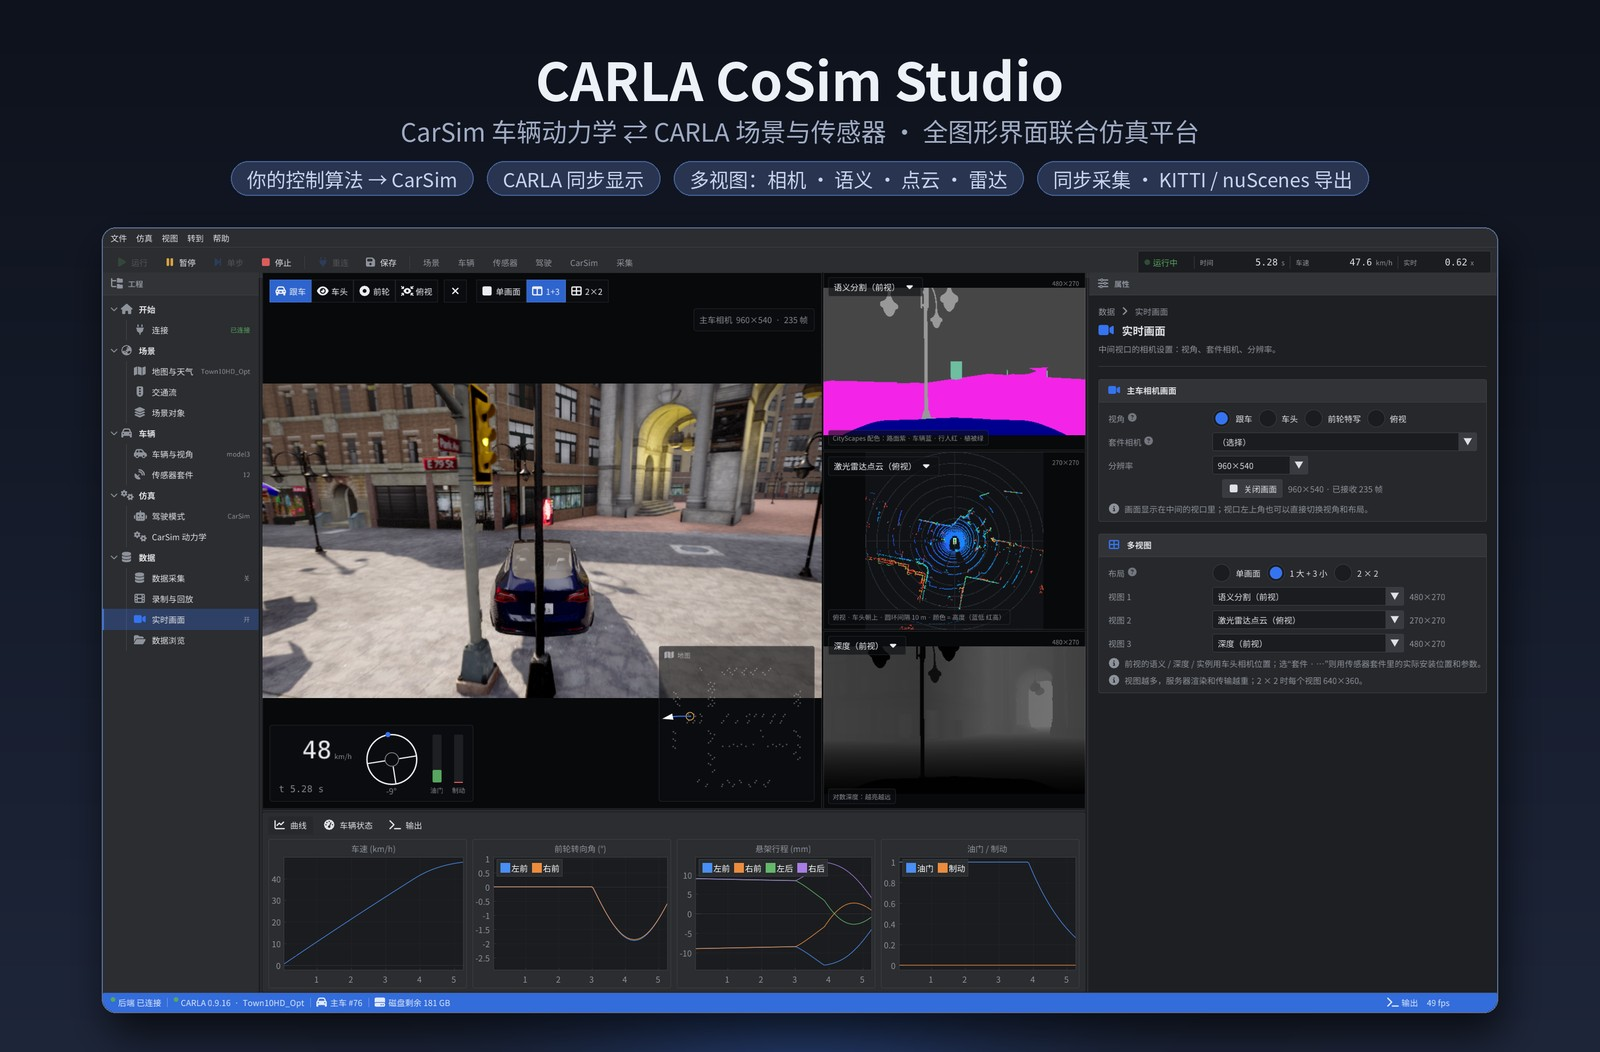
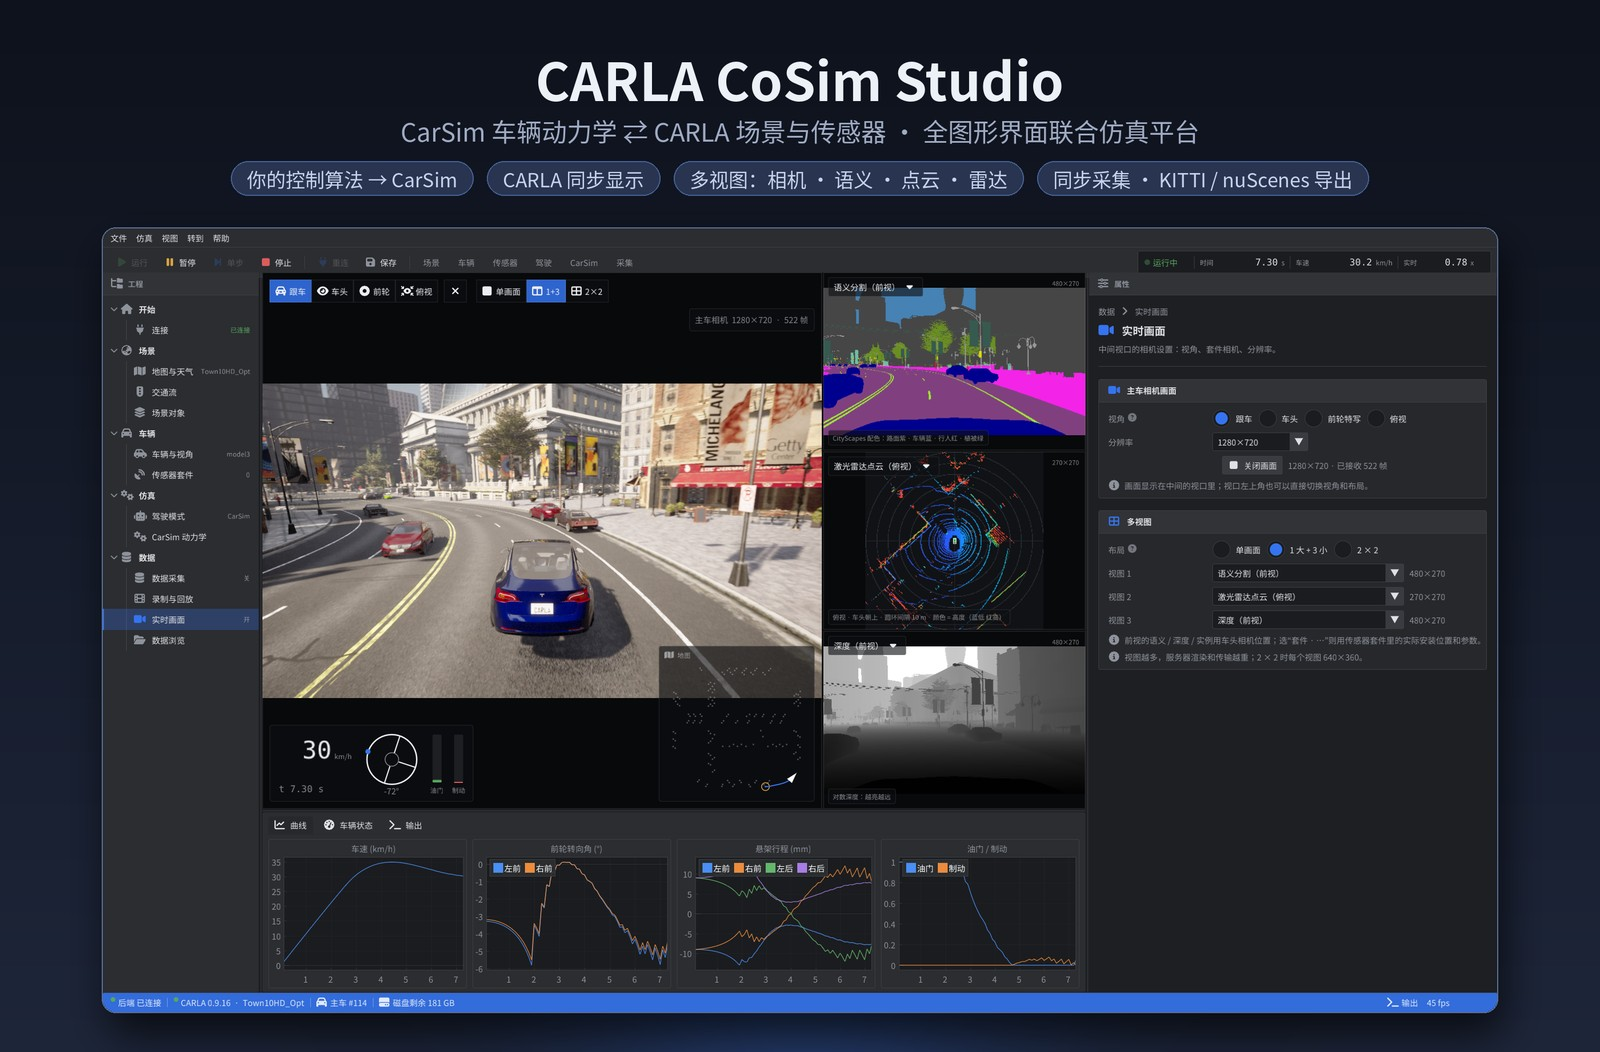
README cover without obstruction; a failed run start keeps the ego
Cover re-shot with the new --hero scenario (clear weather, traffic, CarSim
co-sim following the road, 1+3 multi-view); the old one had the ego
hidden behind a lamp post after the demo controller left the road.
Found while shooting: a run whose spawn point is occupied destroyed the
ego, its sensors and views, and the GUI kept showing a frozen frame. Now
the start fails with a clear message and the previous ego, sensors and
views are restored; the backend reports active views (views_active) so
the GUI never shows stale frames.

diff --git a/cosim_gui/src/app.cpp b/cosim_gui/src/app.cpp
@@ -180,6 +180,8 @@ void App::Init(int argc, char** argv) {
     auto next = [&](std::string& dst) { if (i + 1 < argc) dst = argv[++i]; };
     std::string v;
     if (a == "--tour") next(tour_dir_);
+    else if (a == "--hero") { next(tour_dir_); hero_spawns_ = hero_spawns_.empty() ? "3" : hero_spawns_; }
+    else if (a == "--hero-spawns") next(hero_spawns_);
     else if (a == "--python") { next(v); prefs_["python"] = v; }
     else if (a == "--backend-dir") { next(v); prefs_["backend_dir"] = v; }
     else if (a == "--carla-port") { next(v); prefs_["carla_port"] = std::atoi(v.c_str()); }
@@ -194,7 +196,9 @@ void App::Init(int argc, char** argv) {
   std::string last = prefs_.value("last_config", std::string());
   if (!last.empty() && plat::FileExists(last)) LoadConfig(last);
   if (prefs_.value("auto_start_backend", true)) StartBackend();
-  if (!tour_dir_.empty()) BuildTour();
+  if (!tour_dir_.empty()) {
+    if (hero_spawns_.empty()) BuildTour(); else BuildHeroTour();
+  }
 }
 
 void App::SavePrefs() {
@@ -702,6 +706,10 @@ void App::OnEvent(const json& ev) {
   } else if (type == "progress") {
     const int done = ev.value("done", 0), total = ev.value("total", 1);
     if (done < total) busy_ = Fmt("正在测量车型尺寸 %d/%d", done + 1, total);
+  } else if (type == "views_active") {
+    // The backend says which live views exist (e.g. none after a failed respawn).
+    view_on_ = !ev.value("ids", json::array()).empty();
+    if (!view_on_) view_frames_ = 0;
   } else if (type == "export_progress") {
     ds_export_done_ = ev.value("done", 0);
     ds_export_total_ = ev.value("total", 0);
@@ -828,6 +836,55 @@ void App::BuildTour() {
       {kPanelWorld, [this] { dark_ = true; theme_changed_ = true; LoadMap("Town10HD_Opt"); },
        [this, idle] { return idle() && world_.value("map", "") == "Town10HD_Opt"; }, ""},
   };
+}
+
+// A CarSim co-simulation (mock CarSim, route following on the road) with
+// traffic and the 1+3 multi-view, run from several spawn points; screenshots
+// at a few moments of each run to pick a README cover from.
+void App::BuildHeroTour() {
+  fs::create_directories(fs::u8path(tour_dir_));
+  auto idle = [this] { return busy_.empty() && be_.PendingCount() == 0; };
+  tour_ = new std::vector<TourStep>{
+      {kPanelConnect, [this] { ConnectBackend(); }, [this] { return be_.Connected(); }, ""},
+      {kPanelConnect, [this] { ConnectCarla(); }, [this, idle] { return carla_connected_ && idle(); }, ""},
+      {kPanelWorld, [this] { ApplyWeatherPreset("ClearNoon"); }, idle, ""},
+      {kPanelVehicle, [this] {
+         for (size_t i = 0; i < vehicles_.size(); ++i)
+           if (vehicles_[i]["id"] == "vehicle.tesla.model3") vehicle_sel_ = static_cast<int>(i);
+         SpawnEgo();
+       }, [this, idle] { return idle() && world_.value("ego_id", 0) != 0; }, ""},
+      {kPanelTraffic, [this] { traffic_vehicles_ = 40; traffic_walkers_ = 20; SpawnTraffic(); }, idle, ""},
+      {kPanelView, [this] {
+         cfg_["drive"]["dynamics"] = "cosim";
+         cfg_["drive"]["cosim_driver"] = "route";
+         cfg_["drive"]["target_speed_kmh"] = 35.0;
+         cfg_["carsim"]["mock"] = true;
+         cfg_["sync"]["duration"] = 0.0;
+         cfg_["sync"]["frame_dt"] = 0.05;
+         cfg_["run"]["log_path"] = "";
+         cfg_["collect"]["enabled"] = false;
+         view_mode_ = "chase";
+         view_res_ = 3;
+         view_layout_ = 1;
+         panes_[1].source = "semantic";
+         panes_[2].source = "lidar";
+         panes_[3].source = "depth";
+         StartView();
+       }, [this, idle] { return idle() && view_frames_ > 5; }, ""},
+  };
+  std::string list = hero_spawns_;
+  for (size_t pos = 0; pos <= list.size();) {
+    const size_t comma = std::min(list.find(',', pos), list.size());
+    const int sp = std::atoi(list.substr(pos, comma - pos).c_str());
+    pos = comma + 1;
+    tour_->push_back({kPanelView, [this, sp] { cfg_["carla"]["spawn_index"] = sp; StartRun(); },
+                      [this] { return run_state_ == "running" && last_tel_.value("t", 0.0) > 4.0; }, ""});
+    for (int t : {7, 10, 13, 16})
+      tour_->push_back({kPanelView, [] {},
+                        [this, t] { return run_state_ == "running" && last_tel_.value("t", 0.0) > t && panes_[1].frames > 3; },
+                        Fmt("hero_s%03d_t%02d", sp, t)});
+    tour_->push_back({kPanelView, [this] { RunCommand("cosim_stop"); }, [this] { return !Running(); }, ""});
+  }
 }
 
 void App::TourTick() {

diff --git a/carsim_carla_bridge/backend_server.py b/carsim_carla_bridge/backend_server.py
@@ -282,7 +282,10 @@ class Backend:
         pts = w.get_map().get_spawn_points()
         spawn_index = int(spawn_index) % len(pts)
         self.anchor = pts[spawn_index]
-        self.ego = w.spawn_actor(bp, self.anchor)
+        self.ego = w.try_spawn_actor(bp, self.anchor)
+        if self.ego is None:
+            self.anchor = None
+            raise RuntimeError("出生点 %d 被其他车辆或物体占用，无法生成主车：换一个出生点，或先在“交通流”页清除交通" % spawn_index)
         self._tick_or_wait(1)
         self._log("已生成主车 %s (id %d) 于 spawn point %d" % (blueprint, self.ego.id, spawn_index))
         return {"id": self.ego.id, "spawn_index": spawn_index}
@@ -615,7 +618,33 @@ class Backend:
         sensor_specs = [dict(r["spec"]) for r in self.sensors.values()]
         view_specs = self.views.specs()
         color = self.ego.attributes.get("color", "") if self._alive(self.ego) else ""
-        self.cmd_spawn_ego(c["vehicle"], c["spawn_index"], color)
+        old = (self.ego.type_id, self.ego.get_transform(), self.anchor) if self._alive(self.ego) else None
+        try:
+            self.cmd_spawn_ego(c["vehicle"], c["spawn_index"], color)
+        except RuntimeError:
+            # The run did not start: put the previous ego back where it was, with
+            # its sensors and views, so a failed start costs the user nothing.
+            if old is not None:
+                bp = w.get_blueprint_library().find(old[0])
+                bp.set_attribute("role_name", "hero")
+                if color and bp.has_attribute("color"):
+                    bp.set_attribute("color", color)
+                tf = old[1]
+                for attempt in range(5):
+                    # The destroyed ego only leaves the physics scene on the next frame.
+                    self._tick_or_wait(1)
+                    tf.location.z += 0.1
+                    self.ego = w.try_spawn_actor(bp, tf)
+                    if self.ego is not None:
+                        break
+                if self.ego is not None:  # is_alive can lag one frame behind the spawn
+                    self.anchor = old[2]
+                    self._tick_or_wait(1)
+                    for spec in sensor_specs:
+                        self.cmd_add_sensor(**spec)
+                    if view_specs:
+                        self.cmd_views_set(view_specs)
+            raise
         for spec in sensor_specs:
             self.cmd_add_sensor(**spec)
         if view_specs:

diff --git a/carsim_carla_bridge/tests/test_backend.py b/carsim_carla_bridge/tests/test_backend.py
@@ -130,6 +130,29 @@ def main():
         check("view sizes", got.get("p1", (0, 0))[:2] == (320, 180) and got.get("p3", (0, 0))[:2] == (240, 240),
               {k: v[:2] for k, v in got.items()})
         check("lidar view has points", got.get("p3", (0, 0, 0))[2] > 20, "distinct byte values %s" % (got.get("p3"),))
+        # A run whose spawn point is occupied must fail clearly and tell the GUI
+        # the live views are gone (it used to keep showing the last frame).
+        import carla
+        w = carla.Client("localhost", 2000).get_world()
+        blocker = w.try_spawn_actor(w.get_blueprint_library().find("vehicle.audi.tt"), w.get_map().get_spawn_points()[7])
+        try:
+            bad = c.call("default_config")
+            bad["carsim"]["mock"] = True
+            bad["carla"]["spawn_index"] = 7
+            c.events.clear()
+            try:
+                c.call("cosim_start", config=bad)
+                check("occupied spawn point is reported", False)
+            except RuntimeError as err:
+                check("occupied spawn point is reported", "被其他车辆" in str(err), str(err)[-60:])
+            c.call("ping")
+            va = [e["ids"] for e in c.events if e.get("event") == "views_active"]
+            kinds = sorted(s["type"] for s in c.call("list_sensors"))
+            check("failed start keeps the ego, its sensors and views", c.call("world_info")["ego_id"] > 0
+                  and kinds == ["imu", "rgb"] and bool(va) and len(va[-1]) == 5, (kinds, va[-1:] if va else va))
+        finally:
+            if blocker is not None:
+                blocker.destroy()
         c.call("views_set", views=views[:2])   # kept across the run below (ego is respawned)
 
         rec = c.call("start_recorder", filename="/tmp/cc_gen/test_rec.log")

diff --git a/carsim_carla_bridge/views.py b/carsim_carla_bridge/views.py
@@ -87,7 +87,7 @@ class ViewStreamer:
     def specs(self):
         return [dict(v["spec"]) for v in self.views.values()]
 
-    def stop(self):
+    def stop(self, notify=True):
         with self.lock:
             views, self.views = self.views, {}
         for v in views.values():
@@ -96,10 +96,13 @@ class ViewStreamer:
                 v["actor"].destroy()
             except RuntimeError:
                 pass
+        if views and notify:
+            # The GUI must not keep showing the last frame of views that are gone.
+            self.emit({"event": "views_active", "ids": []})
 
     def set(self, world, vehicle, specs):
         """Replace all views. spec: {id, kind, mode?, mount?, attrs?, width, height, fps}."""
-        self.stop()
+        self.stop(notify=False)
         bl = world.get_blueprint_library()
         out = []
         for spec in specs:
@@ -140,6 +143,7 @@ class ViewStreamer:
                 self.views[vid] = v
             actor.listen(lambda data, vid=vid: self._on_data(vid, data))
             out.append({"id": vid, "kind": kind, "actor": actor.id})
+        self.emit({"event": "views_active", "ids": [o["id"] for o in out]})
         return out
 
     # ------------------------------------------------------------ rendering

diff --git a/cosim_gui/src/app.h b/cosim_gui/src/app.h
@@ -252,6 +252,8 @@ class App {
   int frame_ = 0;
   void TourTick();
   void BuildTour();
+  void BuildHeroTour();           // --hero: candidate screenshots for the README cover
+  std::string hero_spawns_;       // --hero-spawns 0,10,20
   void TourClick();                 // feeds a pending tour click to ImGui as real mouse events
   std::string click_target_;
   int click_phase_ = 0;

diff --git a/README.md b/README.md
@@ -177,7 +177,7 @@ python carsim_carla_bridge/run_cosim.py --mock --duration 20                    
 | 测试 | 内容 | 结果 |
 |---|---|---|
 | `tests/test_coords.py` | 坐标换算与 CARLA 旋转矩阵对照 | 5/5 |
-| `tests/test_backend.py` | 界面后端全部命令（地图、天气、交通、传感器、多视图、录制、联合仿真、暂停 / 单步） | 33/33 |
+| `tests/test_backend.py` | 界面后端全部命令（地图、天气、交通、传感器、多视图、录制、联合仿真、暂停 / 单步、出生点被占时启动失败不丢主车） | 35/35 |
 | `tests/test_features.py` | 传感器套件、磁盘保护、各驾驶模式、自定义控制算法、停止后停车、3 帧多传感器采集 | 18/18 |
 | `tests/test_dataset.py` | 小规模采集 → 浏览渲染 → KITTI / nuScenes 导出；用语义激光雷达验证坐标约定，用 KITTI 文件本身复算框内点数，装了 nuscenes-devkit 时用官方工具交叉验证 | 20/20 |
 | `tests/test_modified_carla.py` | 改版 CARLA：位姿、速度、角速度、IMU、四轮转向、悬架、物理交接 | 11/11 |

diff --git a/cosim_gui/README.md b/cosim_gui/README.md
@@ -75,6 +75,7 @@ cmake --build build -j
 - `--font <ttf>`：指定中文字体。
 - `--tour <目录>`：自动演示并截图，用于测试（包括用真实鼠标点击的步骤）。
 - `--size WxH`、`--scale S`：窗口大小、界面缩放（高分屏或高分辨率截图）。
+- `--hero <目录> --hero-spawns 0,20,40`：README 封面截图用。晴天 + 背景交通 + CarSim 联合仿真（模拟 CarSim，沿道路行驶）+ 1+3 多视图，从每个出生点各跑一次，每次在第 7 / 10 / 13 / 16 秒各截一张，再从中挑选。例如 `--size 2560x1440 --scale 1.5 --hero /tmp/hero --hero-spawns 0,20`。
 
 ## 测试情况（Ubuntu 22.04，CARLA 0.9.16 原版服务器）
 
